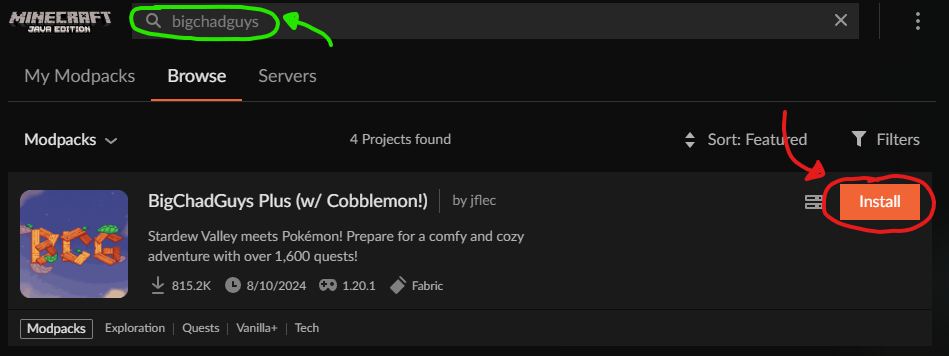
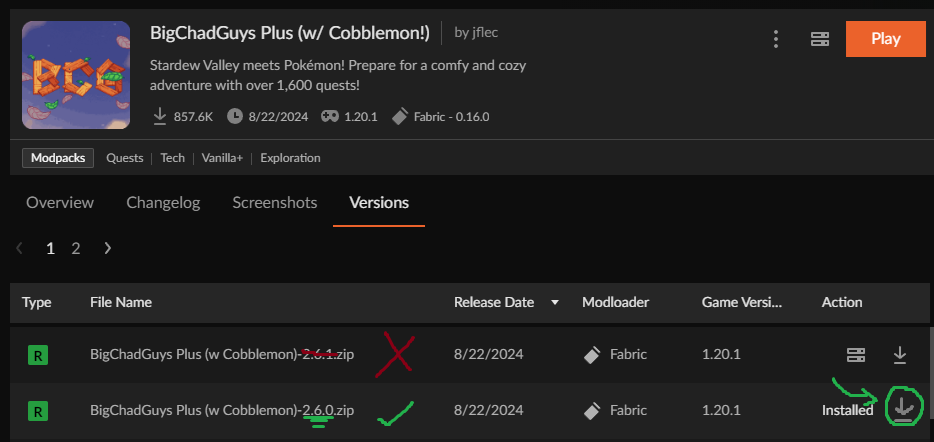
Updated Step 3

diff --git a/index.html b/index.html
@@ -51,7 +51,7 @@
       <label for="step-3">
         Browse for the
         <span class="title">BigChadGuys Plus (w/ Cobblemon!)</span> Modpack and
-        click 'Install'
+        click on the "Versions" tab, and select the correct modpack version (see above)
       </label>
       <div class="step-img">
         <img src="./step3.png" alt="" />
